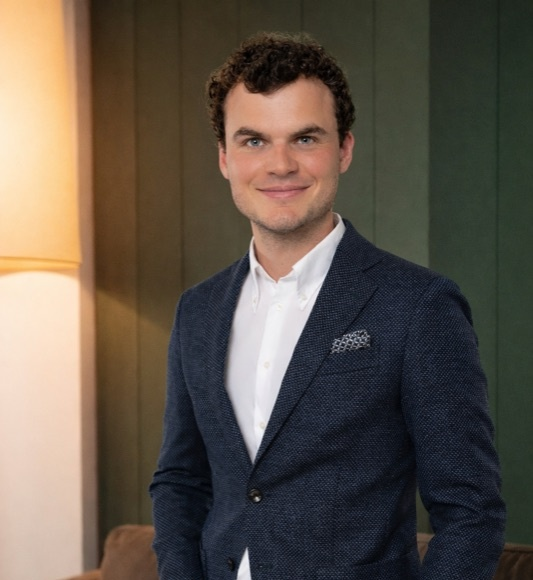
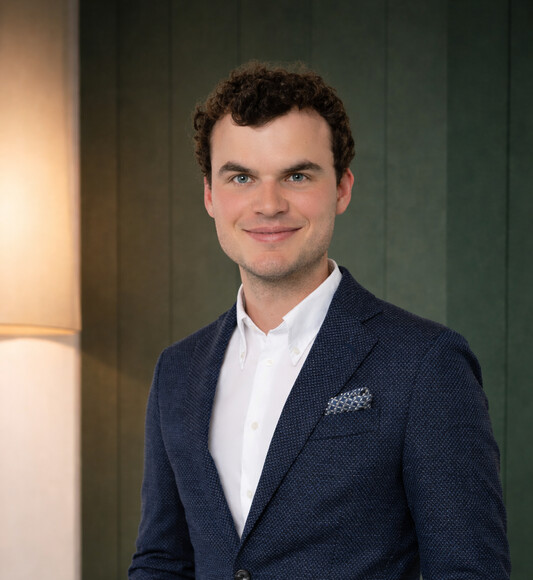
Apply website edits from JHL request (Home + Team + Benefits section)
- TeamProfileCard data path unchanged; replaced /public/images/jhl-new.jpg with updated portrait\n- Home hero subtitle now supports and uses bold styling for intro text\n- BenefitsAccordion CTA buttons (FAQ/Projekte) now render at equal width

diff --git a/schwarzenbach-wm-website-react/src/components/sections/Hero.tsx b/schwarzenbach-wm-website-react/src/components/sections/Hero.tsx
@@ -53,24 +53,34 @@ const Title = styled(motion.h1)`
   font-weight: 600;
 `;
 
-const Subtitle = styled(motion.p)`
+const Subtitle = styled(motion.p)<{ $bold?: boolean }>`
   font-size: clamp(1rem, 1.5vw, 1.15rem);
   color: ${({ theme }) => theme.colors.textMuted};
   max-width: 900px;
   margin: 0 auto;
   line-height: 1.8;
+  font-weight: ${({ $bold }) => ($bold ? 700 : 400)};
 `;
 
 interface HeroProps {
   heading?: string;
   title: React.ReactNode;
-  subtitle?: string;
+  subtitle?: React.ReactNode;
+  subtitleBold?: boolean;
   compact?: boolean;
   bgImage?: string;
   children?: React.ReactNode;
 }
 
-export default function Hero({ heading, title, subtitle, compact, bgImage, children }: HeroProps) {
+export default function Hero({
+  heading,
+  title,
+  subtitle,
+  subtitleBold,
+  compact,
+  bgImage,
+  children,
+}: HeroProps) {
   return (
     <HeroSection $compact={compact} $bgImage={bgImage}>
       <Container>
@@ -93,6 +103,7 @@ export default function Hero({ heading, title, subtitle, compact, bgImage, child
           </Title>
           {subtitle && (
             <Subtitle
+              $bold={subtitleBold}
               initial={{ opacity: 0, y: 20 }}
               animate={{ opacity: 1, y: 0 }}
               transition={{ duration: 0.7, delay: 0.15, ease: [0.25, 0.1, 0.25, 1] }}

diff --git a/schwarzenbach-wm-website-react/src/components/sections/BenefitsAccordion.tsx b/schwarzenbach-wm-website-react/src/components/sections/BenefitsAccordion.tsx
@@ -47,9 +47,18 @@ const Intro = styled.p`
 `;
 
 const ButtonRow = styled.div`
-  display: flex;
+  display: grid;
+  grid-template-columns: repeat(2, minmax(0, 1fr));
   gap: 1rem;
-  flex-wrap: wrap;
+  max-width: 28rem;
+
+  @media (max-width: 580px) {
+    grid-template-columns: 1fr;
+  }
+`;
+
+const ActionButtonLink = styled(ButtonLink)`
+  width: 100%;
 `;
 
 const RightColumn = styled.div``;
@@ -80,8 +89,8 @@ export default function BenefitsAccordion() {
               <Heading>{t('benefits.heading')}</Heading>
               <Intro>{t('benefits.intro')}</Intro>
               <ButtonRow>
-                <ButtonLink to="/faq">{t('benefits.ctaFaq')}</ButtonLink>
-                <ButtonLink to="/#projekte">{t('benefits.ctaProjects')}</ButtonLink>
+                <ActionButtonLink to="/faq">{t('benefits.ctaFaq')}</ActionButtonLink>
+                <ActionButtonLink to="/#projekte">{t('benefits.ctaProjects')}</ActionButtonLink>
               </ButtonRow>
             </LeftColumn>
           </FadeIn>

diff --git a/schwarzenbach-wm-website-react/src/pages/Home.tsx b/schwarzenbach-wm-website-react/src/pages/Home.tsx
@@ -86,6 +86,7 @@ export default function Home() {
         heading="Schwarzenbach Wealth Management"
         title={<>{heroTitleParts[0]}<br />{heroTitleParts[1]}</>}
         subtitle={t('hero.subtitle')}
+        subtitleBold
         bgImage="/images/hero-pexels.jpg"
       >
         <ButtonLink to="/#team" style={{ marginTop: '1.5rem' }}>
